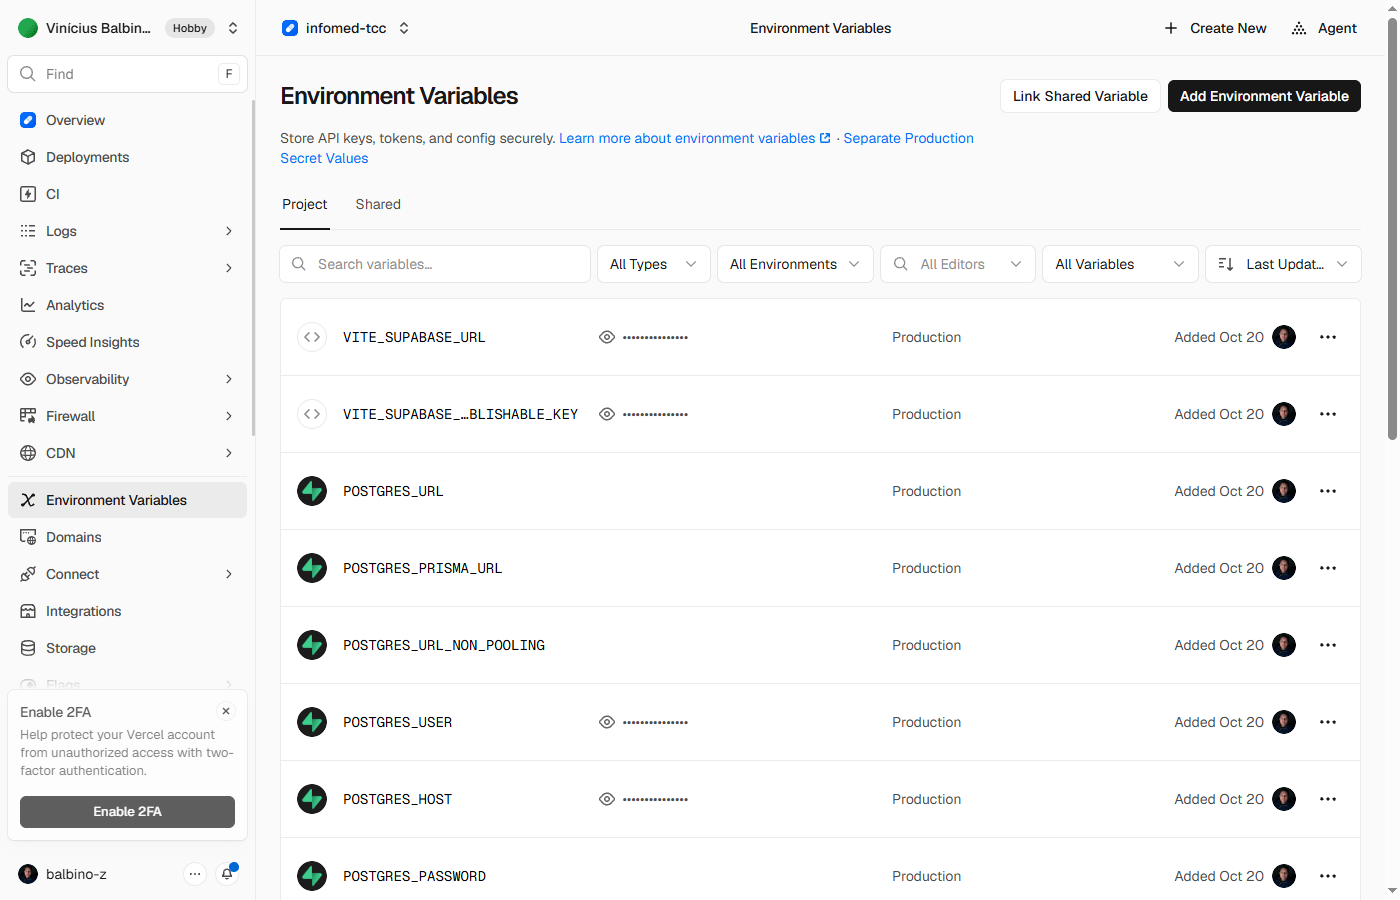
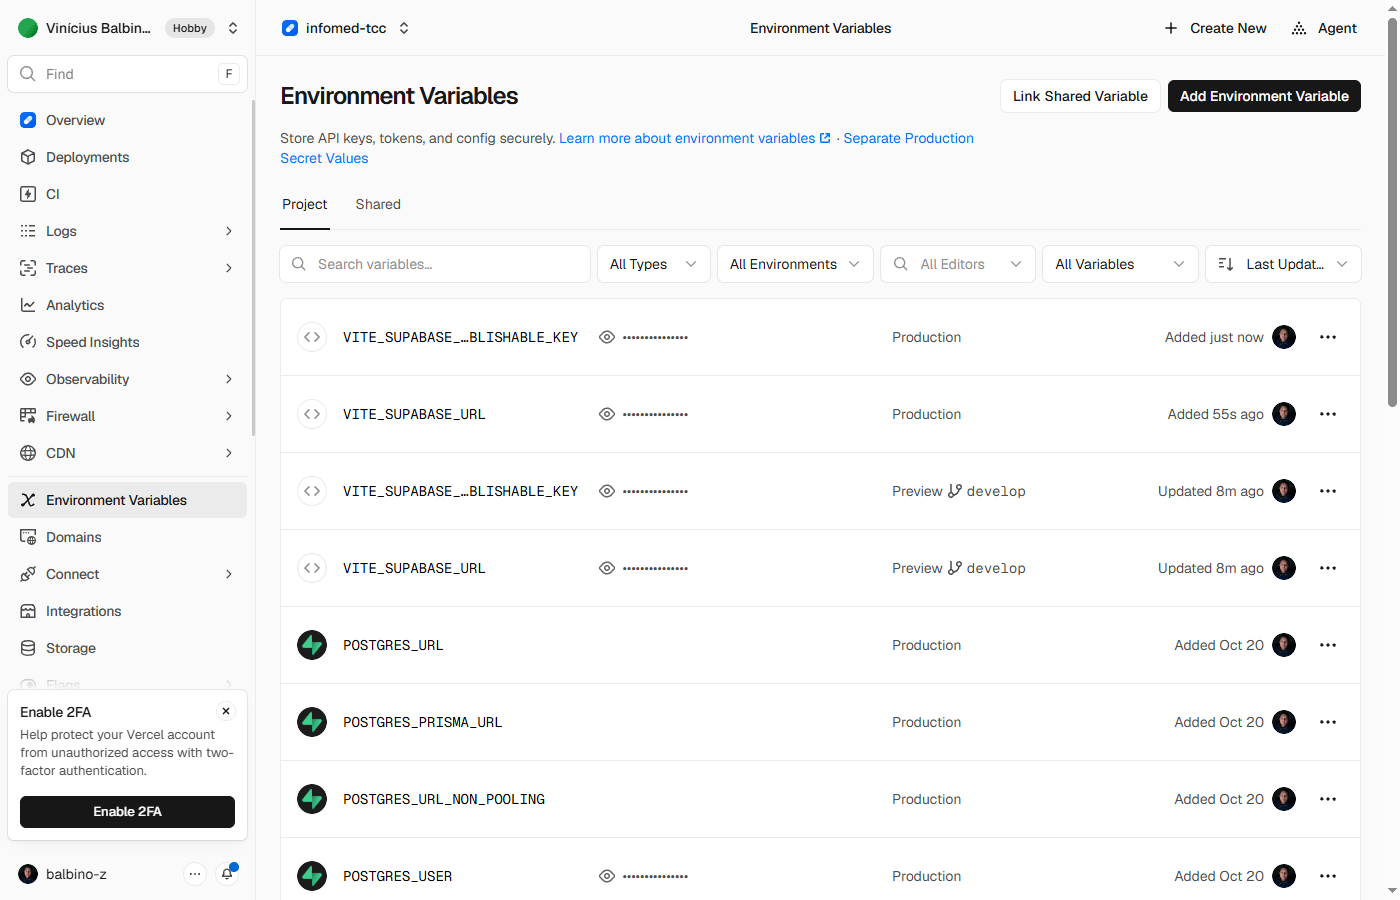
docs: print B05 com as variáveis em Production e Preview (develop)

diff --git a/docs/devops/PASSO-A-PASSO-DUPLA.md b/docs/devops/PASSO-A-PASSO-DUPLA.md
@@ -146,7 +146,7 @@ Repita tudo criando outro ruleset chamado `protege-develop`, com o padrão `deve
 📸 **B03-ruleset-main.png** — a tela do `protege-main` mostrando as opções marcadas (role a página e tire 2 prints se precisar: `B03a`, `B03b`).
 
 ### 2.4 Configurar os ambientes na Vercel
-> ✅ **Feito em 21/11/2026** (com o Playwright CLI, na conta do BALBINO), exceto o item 2, que fica com o BALBINO.
+> ✅ **Feito em 21/11/2026** (com o Playwright CLI, na conta do BALBINO). O item 2 foi feito pelo BALBINO, porque a Vercel pede código por e-mail.
 
 Endereços dos ambientes:
 - **Produção** (`main`): https://infomed-tcc.vercel.app
@@ -154,8 +154,8 @@ Endereços dos ambientes:
 - **Preview** (cada PR): o link que a Vercel comenta no PR.
 
 1. **Settings → Environments:** a linha *Production* mostra *Branch Tracking* = `main`. ✅
-2. **Settings → Environment Variables (pendente, BALBINO faz):** as duas variáveis do app (`VITE_SUPABASE_URL` e `VITE_SUPABASE_PUBLISHABLE_KEY`) estão só em **Production**. Para a homologação usar o banco: **⋯ → Edit** em cada uma → a Vercel manda um **código de 6 dígitos para o seu e-mail** → digite o código → em *Environments* clique **Select a Custom Preview Branch** → escolha `develop` → **Save**. Depois, em **Deployments**, abra o último deploy da `develop` → **⋯ → Redeploy**.
-   - Enquanto isso não for feito, a homologação roda em **modo Mock** (sem banco). Isso não impede a esteira; só registre no trabalho.
+2. **Settings → Environment Variables (✅ feito pelo BALBINO):** resultado final: cada variável `VITE_...` aparece duas vezes, uma em *Production* e outra em *Preview · develop*. **Atenção:** ao editar, a Vercel **troca** o ambiente em vez de acrescentar; para ter os dois, crie uma entrada para cada ambiente. as duas variáveis do app (`VITE_SUPABASE_URL` e `VITE_SUPABASE_PUBLISHABLE_KEY`) estão só em **Production**. Para a homologação usar o banco: **⋯ → Edit** em cada uma → a Vercel manda um **código de 6 dígitos para o seu e-mail** → digite o código → em *Environments* clique **Select a Custom Preview Branch** → escolha `develop` → **Save**. Depois, em **Deployments**, abra o último deploy da `develop` → **⋯ → Redeploy**.
+   - Depois do **Redeploy** da `develop`, a homologação passou a usar o Supabase (conferido em 21/11/2026).
 3. **Settings → Deployment Protection:** *Vercel Authentication* foi **desligado**, para o PABLO abrir os links de Preview e a homologação sem conta na Vercel. ✅ Não expõe dados: as previews rodam em modo Mock.
 
 📸 **B04-vercel-ambientes.png** — Production acompanhando a `main`. ✅
